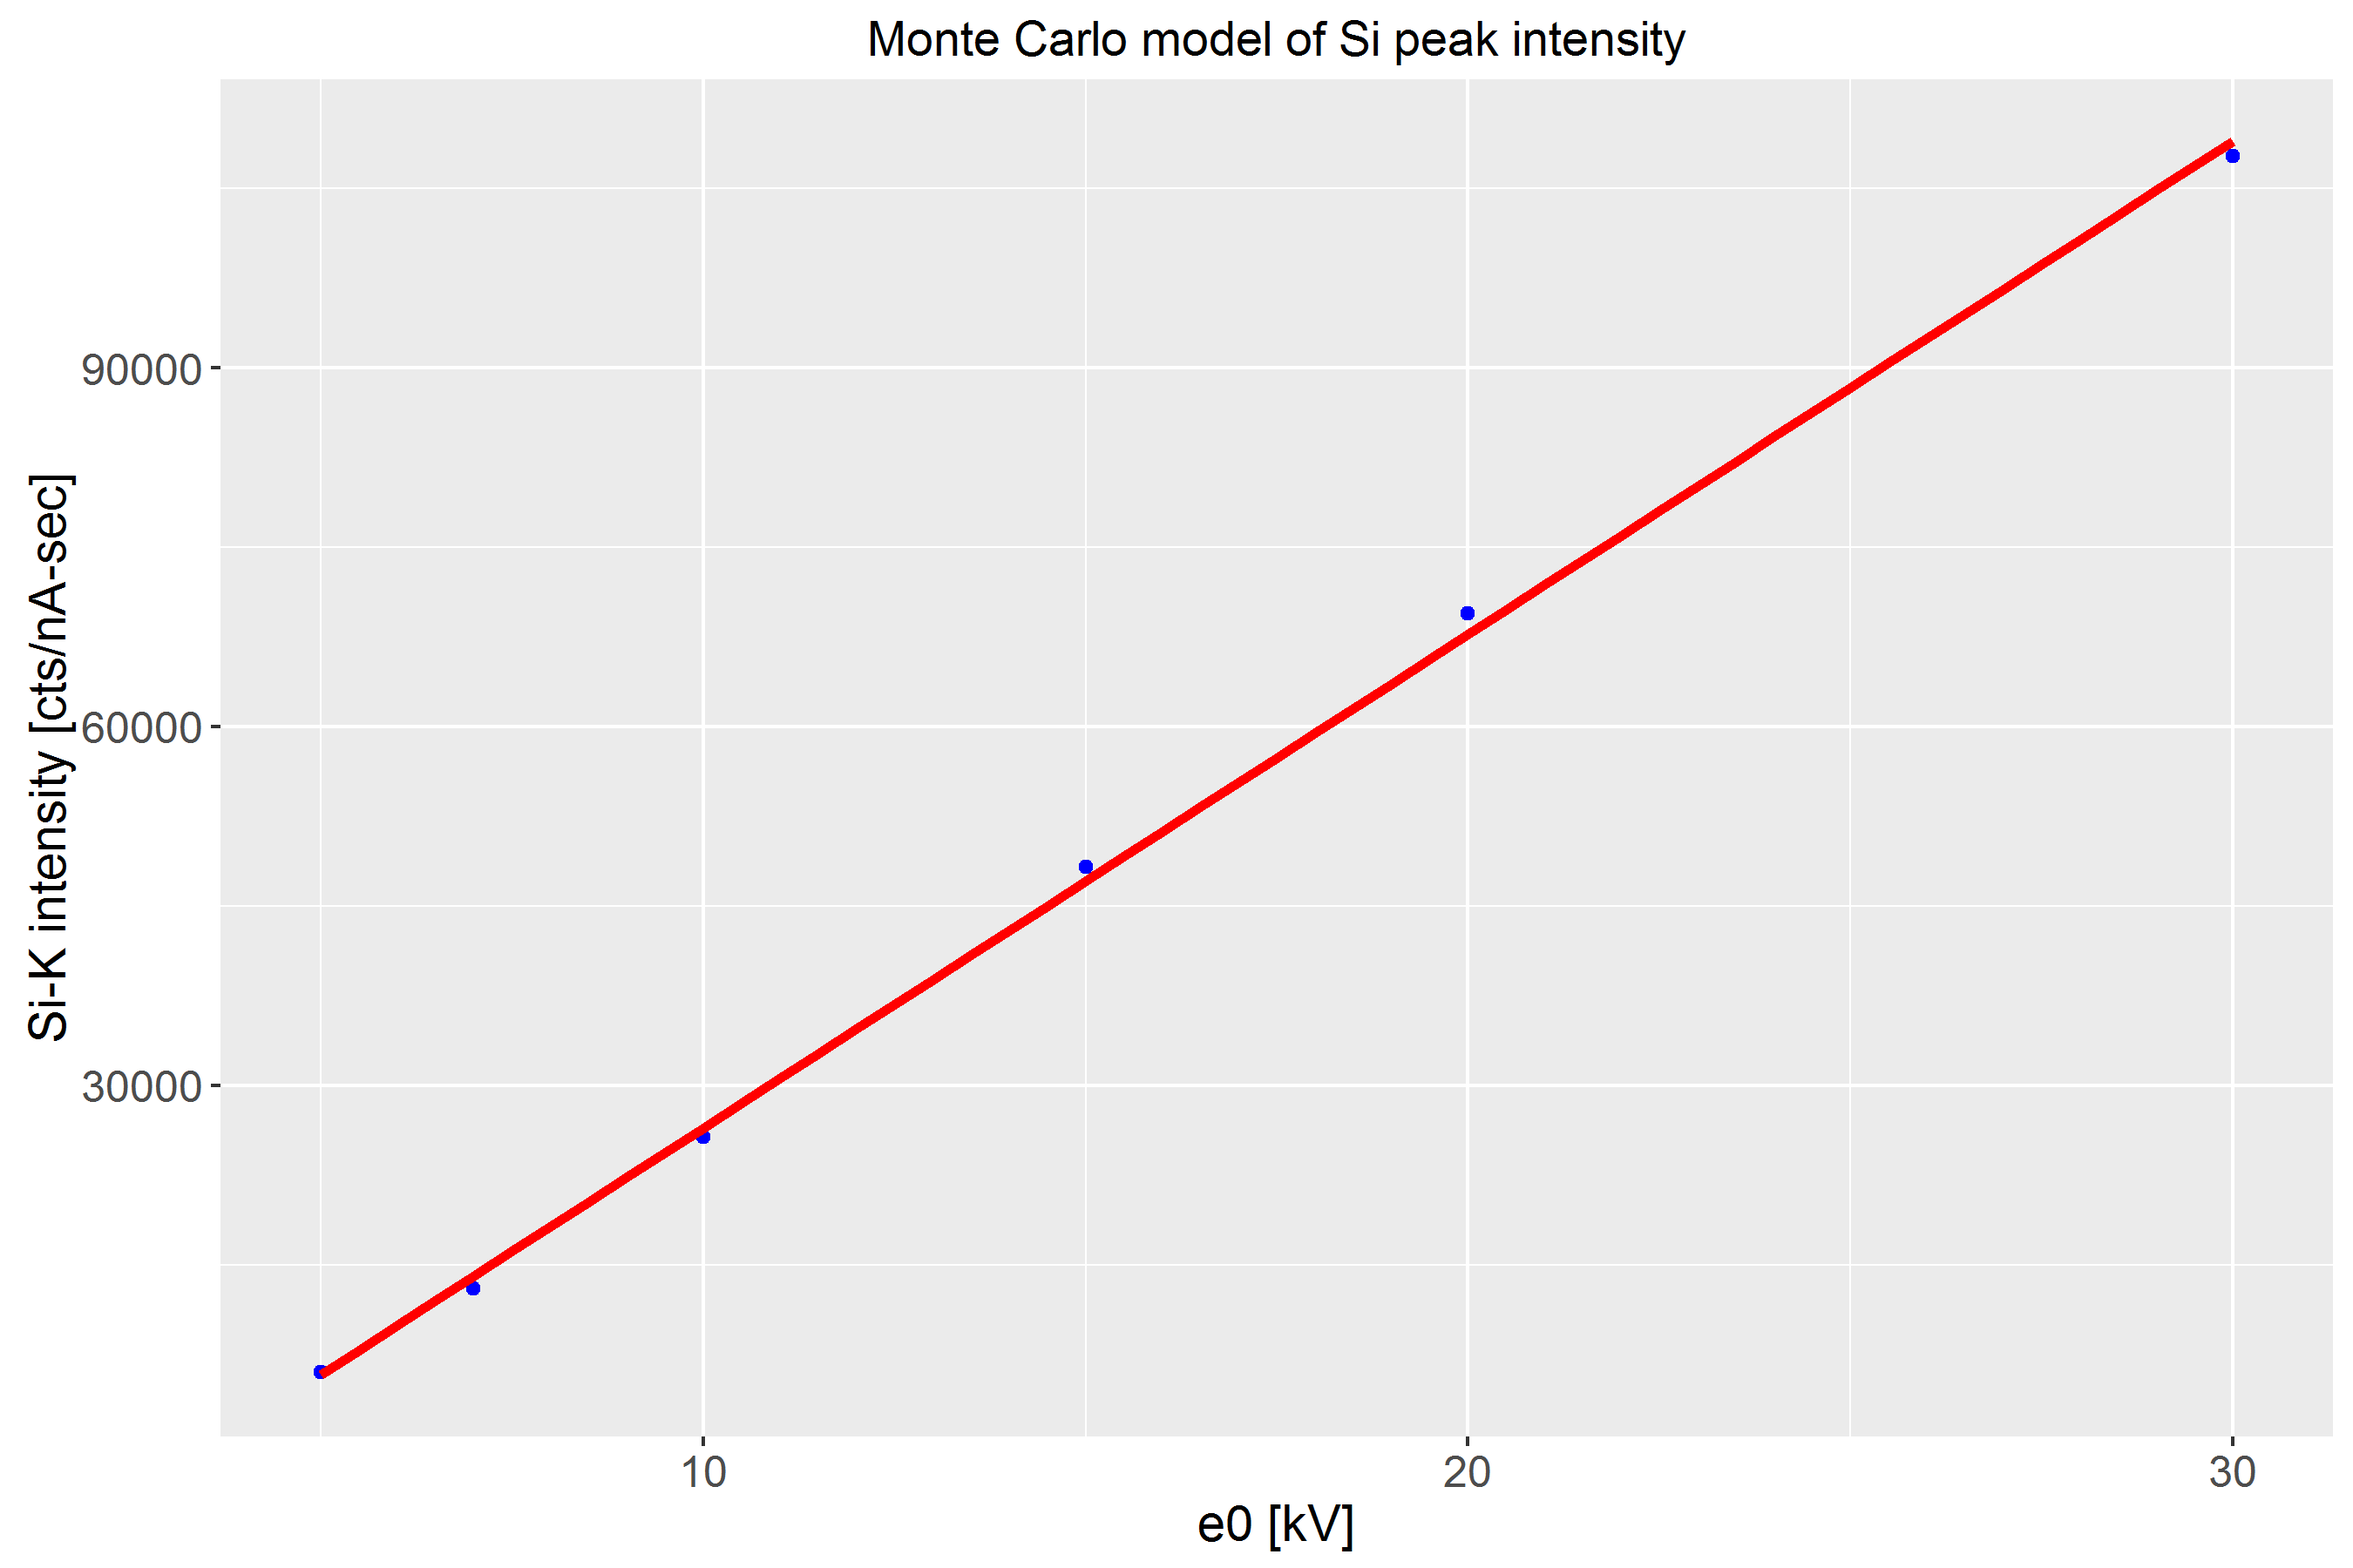
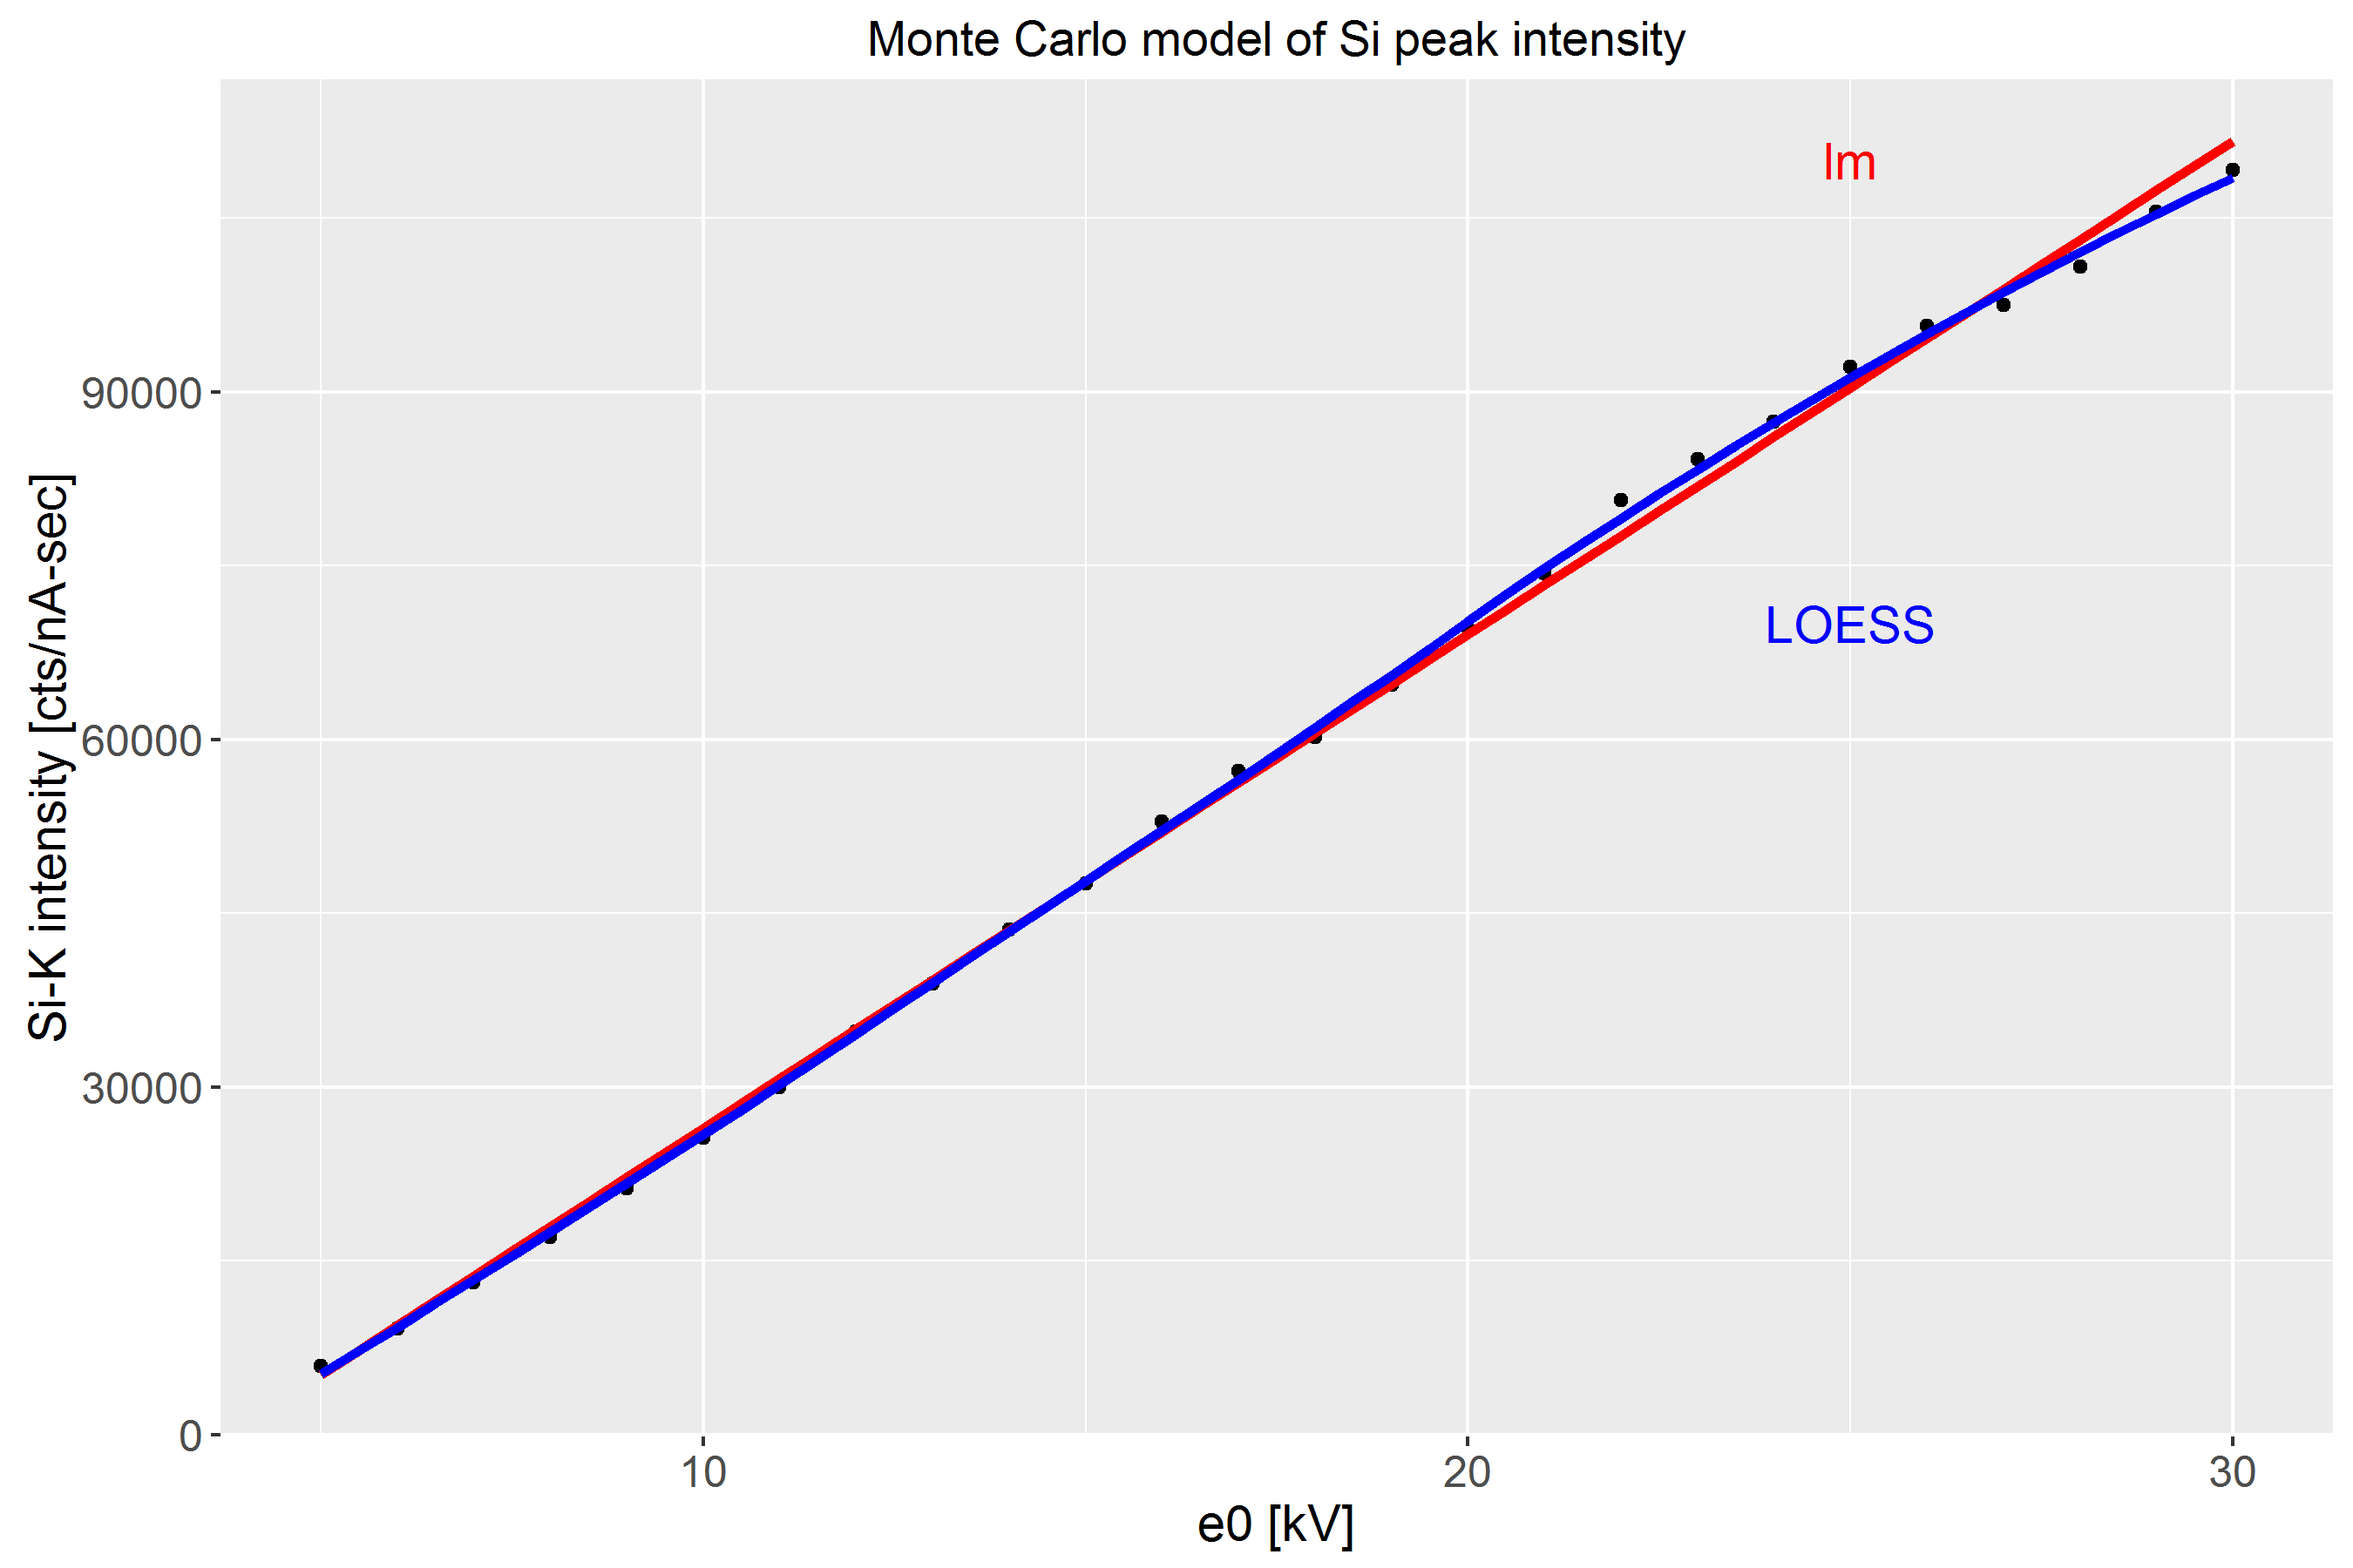
with 1000 trajs. better try a long run with 10K...

diff --git a/py/simulate-Si-voltage-series.py b/py/simulate-Si-voltage-series.py
@@ -5,10 +5,10 @@
 # 2016-09-15  JRM  Simulate the peak intensity of Si at a series
 #                  of accelerating voltages at a standard probe
 #                  current. Use output to normalize probe current
-#                  series at a single voltage. 
+#                  series at a single voltage. More vopltages is better.
 #                  
-# This script required  22.659 min on ROCPW7ZC5C42 for 10K traj
-# Elapse: 0:22:39.9
+# This script required  11.224 min on ROCPW7ZC5C42 for 1000 traj
+# Elapse: 0:11:13.8
 
 import sys
 sys.packageManager.makeJavaPackage("gov.nist.microanalysis.NISTMonte.Gen3", "CharacteristicXRayGeneration3, BremsstrahlungXRayGeneration3,FluorescenceXRayGeneration3, XRayTransport3", None)
@@ -52,7 +52,7 @@ rptDir = wrkDir + '/simulate-Si-voltage-series Results/'
 
 
 det      = findDetector("Oxford p4 05eV 2K")
-nTraj    = 10000    # trajectories
+nTraj    =  1000    # trajectories
 lt       =   100    # sec
 pc       =     1.0  # nA
 kVstart  =     5
@@ -78,7 +78,7 @@ iCount = 0
 
 for e0 in lE0:
 
-    spc = mc3.simulate(si, det, float(e0), dose, False, nTraj, True, True, {})
+    spc = mc3.simulate(si, det, float(e0), dose, True, nTraj, True, True, {})
 
     sName = "Si-%g-kV" % (e0)
     spc.rename(sName)
